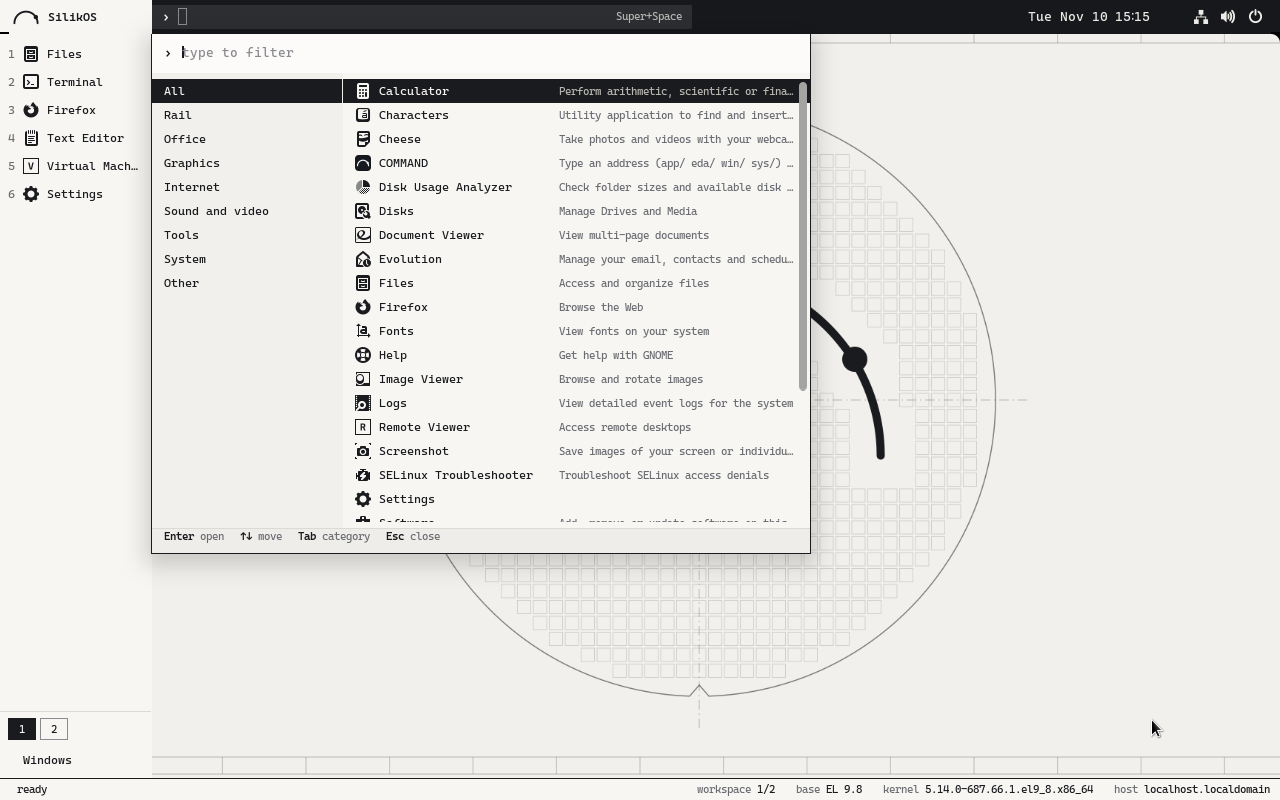
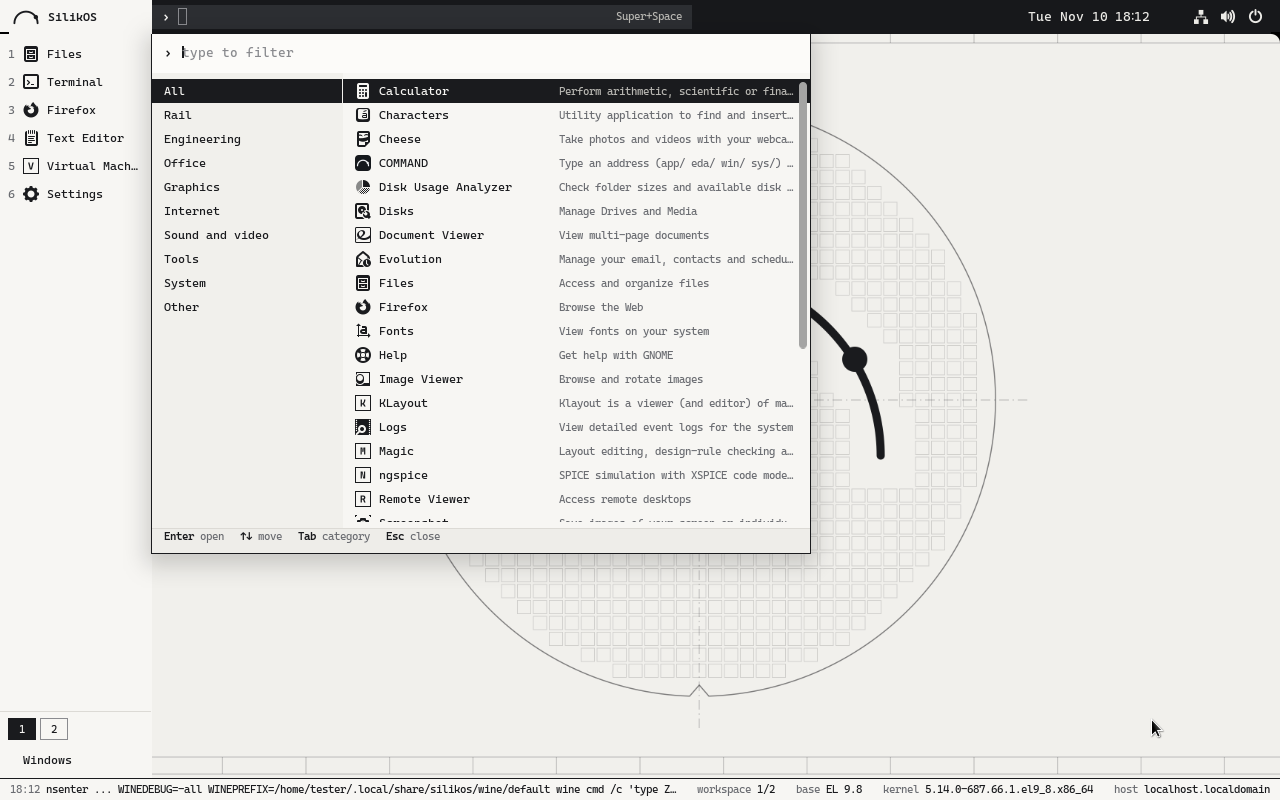
silikos-desktop 0.10.1: a locked screen no longer shows the shell's keys or the focused program's name
Found in the installation test's pictures: when the shell locks it turns extensions off, and the extension, on
its way out, showed "Activities" and the application menu again on a screen where the shell had just hidden
them (the name of the focused program was readable on the locked screen). They now come back only where the
session's mode has them, and stay hidden while the extension is on. Tried in the container by turning the
extension off and on (0 JS ERROR); not yet seen on a locked screen.

The 2 JS ERROR lines of the last two runs are the base shell's input-method manager at the start of a session,
not the extension: the test fails on errors with the extension in their message or stack and reports the others.

README and docs/STATUS.md: a Windows program's window and the four open EDA tools on the installed system
(run 42870211056), with its pictures.

Claude-Session: https://claude.ai/code/session_017vAYsxEtDVxrRbukVjuokZ

diff --git a/packages/silikos-desktop/files/shell-ext/extension.js b/packages/silikos-desktop/files/shell-ext/extension.js
@@ -230,7 +230,12 @@ class SilikShell {
             Main.panel._rightBox.remove_child(dm.container);
             Main.panel._centerBox.add_child(dm.container);
         }
-        for (const a of this._moved) a.show();
+        /* the shell's own keys come back only where the session's mode has them: on the lock screen (where the shell
+           turns extensions off) it has just hidden them, and showing them there put "Activities" and the name of the
+           focused program on a locked screen */
+        const p = Main.sessionMode.panel || {};
+        const has = [].concat(p.left || [], p.center || [], p.right || []);
+        for (const [k, c] of this._moved) if (has.includes(k)) c.show();
         this._moved = [];
     }
 
@@ -238,7 +243,10 @@ class SilikShell {
     _title() {
         for (const k of ['activities', 'appMenu']) {
             const b = Main.panel.statusArea[k];
-            if (b && b.container.visible) { b.container.hide(); this._moved.push(b.container); }
+            if (!b) continue;
+            b.container.hide();
+            this._moved.push([k, b.container]);
+            this._sigs.push([b.container, b.container.connect('show', c => c.hide())]);   /* the panel shows it again when the session's mode changes */
         }
         this._mk = new St.Button({ style_class: 'silik-mk', reactive: true, track_hover: true, can_focus: true, y_expand: true });
         const mb = new St.BoxLayout({ y_align: Clutter.ActorAlign.CENTER });

diff --git a/packages/silikos-desktop/files/shell-extra.css b/packages/silikos-desktop/files/shell-extra.css
@@ -67,5 +67,3 @@ StEntry:focus { box-shadow: inset 0 0 0 1px #ecebe7; border-color: #ecebe7; }
 .window-caption { background-color: #1a1b1e; color: #f7f6f3; border-radius: 0; border: 0; }
 .window-close { background-color: #1a1b1e; color: #f7f6f3; border-radius: 0; }
 .page-indicator .page-indicator-icon { background-color: #1a1b1e; }
-/* the lock and login screens: the shell's own key ("Activities") has nothing to open there */
-#panel.unlock-screen #panelActivities, #panel.login-screen #panelActivities, #panel.lock-screen #panelActivities { color: transparent; }

diff --git a/docs/STATUS.md b/docs/STATUS.md
@@ -46,7 +46,7 @@ Docker Hub, repo.almalinux.org, dl.fedoraproject.org and vault.centos.org).
 | One sandbox per prefix | concurrent runs there | two programs of one prefix run together; a file from a folder the running sandbox does not show is refused (exit 75) and opens once the prefix is idle |
 | An installer becomes an application | own `setup.exe` (a start-menu shortcut) -> `silik win sync` -> `silik win apps`; repeated by hand on the host without the sandbox | `win/silik-test  Silik Test  (default)`; an entry with `Exec=silik win run default -- ...lnk` and `StartupWMClass=siliktest.exe`; uninstalling removes it |
 | A Windows program in the rail and in Start | that generated entry copied into the GNOME session of the container, and a stand-in window with the class Wine gives (`siliktest.exe`, read with `xprop` from the real Wine window on the host) | the window is matched to the entry: "Silik Test" with its framed initial under "open" in the rail, in Start and under "Windows programs" (`docs/img/windows-program.png`). The real Wine window itself was not shown in that session (next row) |
-| A real Wine window in the Silik desktop | `silik-wine` 11.0 installed in the container session (AlmaLinux 9.8, gnome-shell 40.10); a Win32 program with a window (`tests/install/window.c`), opened with `silik win open` and by typing its path in the COMMAND bar; sandboxed (bwrap worked in that container) | the COMMAND bar offers "run with Wine, in the sandbox" with the line `silik win open …/win.exe`; the window draws with the ink title bar, and the rail lists it under "open" as "Silik Test" with its framed initial, in inverse video while focused (`docs/img/windows-program.png`); the status bar shows the command. Not yet on an installed system |
+| A real Wine window in the Silik desktop | `silik-wine` 11.0 installed in the container session (AlmaLinux 9.8, gnome-shell 40.10); a Win32 program with a window (`tests/install/window.c`), opened with `silik win open` and by typing its path in the COMMAND bar; sandboxed (bwrap worked in that container) | the COMMAND bar offers "run with Wine, in the sandbox" with the line `silik win open …/win.exe`; the window draws with the ink title bar, and the rail lists it under "open" as "Silik Test" with its framed initial, in inverse video while focused (`docs/img/windows-program.png`); the status bar shows the command. |
 | A double-click in Files | nautilus 40.2 in the container, clicked with xdotool, a logging stand-in for `silik` | `.exe`, `.exe` with the executable bit and `.msi` each ran `silik win open FILE` |
 | The COMMAND bar | `silik-command --list` there | `win/silik-test` with its twin line; a path to an `.exe` becomes `silik win open` |
 | Unit tests, all | `python3 -m unittest discover -s tests` on Python 3.13 (host) and, before the merge of the two branches, 3.9 | 111 / 111 on 3.13 after the merge (74 and 64 on 3.9 on each branch) |
@@ -63,10 +63,12 @@ Docker Hub, repo.almalinux.org, dl.fedoraproject.org and vault.centos.org).
 | Our own Wine, `silik-wine` 11.0 | workflow Wine, run 42850249493 (commit bf16eb6): built in an `almalinux:9` container from WineHQ's source (`wine/silik-wine.spec`), then installed in a clean `almalinux:9` with the base's repositories and CRB only | builds; installs without EPEL; `wineboot --init` makes a prefix; a 64-bit and a 32-bit Windows program (compiled there with mingw) each print their greeting. Kept as the release `wine-11.0` (one RPM, 73.5 MB); the CI's ISO carries it |
 | Wine on an installed system, with SELinux enforcing | workflow CI, run 42860155060 (commit 8ee438e): the ISO with `silik-wine`, 1433 packages, 7.2 G used | `wine-11.0` in the PATH. EL 9 has `selinuxuser_execmod` off, so Wine does not start in the user's domain: `silik-win` 0.4.0 carries a rule (`silikos_wine.cil`: Wine's three programs are `wine_exec_t`, a user's session enters `wine_t`). Seen there: the rule is loaded, the label is set, a Windows program reads its own domain as `unconfined_u:unconfined_r:wine_t`; **without the sandbox** (`--no-sandbox`) the test program ran from the user's session (exit 0). With the sandbox: not yet, next table |
 | Why the first sandboxed run stopped | `silik-wine` 11.0 in the AlmaLinux 9.8 container with a display (Xvfb), `wineboot --init` on a new prefix, plain and with `WINEDLLOVERRIDES=mscoree,mshtml=` | plain: a window "Wine Mono Installer" opens and waits for an answer (still there at the 150 s limit; WineHQ's Wine offers to download Mono and Gecko, a distribution's Wine does not); with the overrides: the prefix is made in 6 s. `silik` 0.3.1 sets them when it sets a prefix up. A .NET program therefore finds no Mono: not handled yet |
-| The lock screen without the extension | `silikos-desktop` 0.10.0 in the container session: gnome-shell started with user extensions disabled (as on the lock and login screens) and `G_RESOURCE_OVERLAYS` as `/usr/lib/environment.d/60-silikos-shell.conf` sets it, screenshot | the shell's own default stylesheet is then the SilikOS one: ink panel, Cascadia Mono, no logo of the base. Found on the installed system (run 42860155060): its lock screen was stock GNOME with "Activities" and the base's logo |
+| The shell's stylesheet without the extension | `silikos-desktop` 0.10.0 in the container session: gnome-shell started with user extensions disabled (as on the lock and login screens) and `G_RESOURCE_OVERLAYS` as `/usr/lib/environment.d/60-silikos-shell.conf` sets it, screenshot | the shell's own default stylesheet is then the SilikOS one: ink panel, Cascadia Mono, no logo of the base |
 | **A Windows program on the installed system, in its sandbox** | workflow CI, run 42864994059 (commit 8498a55; `silik` 0.3.1, `silikos-desktop` 0.10.0; 1434 packages, 7.5 G): `silik win open hello.exe` from the test user's session, SELinux enforcing, kernel 5.14, bubblewrap 0.6.3, Wine 11.0 | first use sets the prefix up and the program runs (exit 0) inside bwrap: it writes to `W:` (`~/Windows`) and **cannot see** a file of `~/.ssh` (`ran secret=hidden`); its SELinux domain is `wine_t`. 45 checks ok; the one marked failed was the test comparing a Windows line ending (fixed). Not seen: a window of a Windows program on that screen (the test program has none) |
-| The unlock prompt on the installed system | the same run: the session locked with Super+L, then a key, the screen saved (branch `ci-results`, `unlock.png`); `G_RESOURCE_OVERLAYS` read from gnome-shell's environment | the prompt is drawn with the SilikOS stylesheet: ink entry, Cascadia Mono, no "Activities", no logo of the base. The lock screen before the key (the clock) was not caught: the screen had gone dark (the test now moves the pointer first) |
-| The open EDA tools for EL 9: KLayout, Magic, Xschem, ngspice | workflow EDA tools (runs 42853105021 and 42859564822, commits cbe7ae4 and 06824e0): each built in `almalinux:9` from upstream's source at the version of `eda/versions`, installed in a clean `almalinux:9` (the base's repositories and CRB only) and given a job without a screen (`eda/trial.sh`) | `klayout-0.30.13` (44.9 MB, 58 minutes to build): a box written to GDS and read back through its Python interface; `ngspice-47` (2.6 MB, with XSPICE): a divider gives 0.5 V and an XSPICE gain block 1 V; `magic-8.3.696` (1.7 MB): a box of metal 1 painted in the `scmos` technology and saved; `xschem-3.4.7` (11.6 MB): installs and reports its version (no schematic drawn). All four in the release `eda-tools`. On an installed system so far: Magic and Xschem installed by the ISO (run 42864994059), not started; KLayout and ngspice not yet (next table). No window of any of them has been seen |
+| The unlock prompt on the installed system | runs 42864994059 and 42873833996: the session locked with Super+L, then a key, the screen saved (branch `ci-results`); `G_RESOURCE_OVERLAYS` read from gnome-shell's environment | the prompt is drawn with the SilikOS stylesheet: ink entry, Cascadia Mono, no logo of the base. **Found there, a fault of ours**: the locked screen showed "Activities" (first run) and the name of the focused program ("Silik Test") in the top bar. The shell turns extensions off when it locks, and the extension, on its way out, showed the shell's own keys again on a screen where the shell had just hidden them. Fixed in `silikos-desktop` 0.10.1 (they come back only where the session's mode has them); in the container the extension turned off and on again restores and hides them, 0 `JS ERROR`. Not yet seen fixed on a locked screen |
+| The open EDA tools for EL 9: KLayout, Magic, Xschem, ngspice | workflow EDA tools (runs 42853105021 and 42859564822, commits cbe7ae4 and 06824e0): each built in `almalinux:9` from upstream's source at the version of `eda/versions`, installed in a clean `almalinux:9` (the base's repositories and CRB only) and given a job without a screen (`eda/trial.sh`) | `klayout-0.30.13` (44.9 MB, 58 minutes to build): a box written to GDS and read back through its Python interface; `ngspice-47` (2.6 MB, with XSPICE): a divider gives 0.5 V and an XSPICE gain block 1 V; `magic-8.3.696` (1.7 MB): a box of metal 1 painted in the `scmos` technology and saved; `xschem-3.4.7` (11.6 MB): installs and reports its version (no schematic drawn). All four in the release `eda-tools`. No window of any of them has been seen |
+| The open EDA tools on an installed system | workflow CI, run 42870211056 (commit 5a53d83; 1452 packages, 7.7 G used): the ISO carries the four packages; the installed system runs each as the test user, without a screen | all four installed; `klayout -zz -v` answers; Magic paints and saves a box of metal 1 (`scmos`); ngspice solves the divider (0.5 V); `xschem --version` answers. KLayout, Magic and ngspice are in Start with their framed initial (`docs/img/installed-start.png`; Xschem is further down the list, not in the picture). None was opened in a window |
+| **A Windows program's window on the installed system** | the same run: a Win32 program with a window (`tests/install/window.c`), first started by `silik win open` and looked for in the session's window list, then opened the way a person would: Super+Space, its path typed on the virtual machine's keyboard, Enter; the screen saved | the window is in the list under its title with the class `win.exe`; on the screen it has the ink title bar and the rail lists it under "open" as "Silik Test" in inverse video (`docs/img/installed-windows-program.png`); the status bar shows the command. 52 checks ok; one failed: 2 `JS ERROR` lines in the journal. Read in the next run (42873833996): both are the base shell's input-method manager at the start of the session (`ibusManager.js`: "Set global engine failed: Operation was cancelled"), nothing of the extension in their stack; the test now fails on errors with the extension in them and reports the others |
 
 Found by the first complete installation and fixed, **and seen fixed in the second** (run 42840361656, commit 5f1d4f6:
 38 checks ok, none failed): no shell theme had been made and the GTK theme was the fallback, because the theme makers
@@ -88,13 +90,13 @@ Two bugs were found by running `silik eda` for real and fixed: the vault reposit
 
 | What | Why | Who can |
 |---|---|---|
-| A Windows program's window on the installed system's screen (seen in the container session only); a .NET program (no Mono in the prefix: `silik` sets a prefix up without Wine's download dialog) | the test opens one from the COMMAND bar from the next run on; Mono not handled yet | the next CI run; a decision on Mono |
-| KLayout and ngspice on an installed system; any of the four open EDA tools started there; their windows; a PDK (none is shipped) | the ISO of the last CI run was built before their packages existed; the installed system now runs each without a screen | the next CI run; windows and a real design: the Ryzen machine |
+| A .NET program (no Mono in the prefix: `silik` sets a prefix up without Wine's download dialog); a Windows program in Start after an installer made its shortcut, on the installed system | Mono not handled yet; no installer run there | a decision on Mono; the Ryzen machine |
+| The windows of KLayout, Magic, Xschem and ngspice's plots; a real design; a PDK (none is shipped) | only run without a screen | the Ryzen machine |
 | BIOS (non-UEFI) boot of the ISO | not tried | a VM |
 | The boot splash (plymouth theme `silikos`) on a screen, the About logo, the login logo, the firmware's boot entry name | set and listed, not seen: no real boot here | after the first installation |
 | Places that still name the base | by design: the package source URL in the installer, repository names in `dnf`, `/etc/redhat-release`, `ID=` | — |
 | The login screen itself and its logo (the test logs in by itself), a hardware-accelerated shell, HiDPI scaling of the rail and status bar, several monitors, a full-screen window, UEFI boot of the installed system | the CI machine: BIOS, one 1280x800 screen, no GPU | the Ryzen machine |
-| The login screen (GDM's greeter) in the Silik look; the lock screen's clock | the stylesheet overlay (`/usr/lib/environment.d/60-silikos-shell.conf`) should reach the greeter's shell too [A]: not seen, the test logs in by itself; the lock screen's picture was dark | the next CI run (lock screen); the Ryzen machine (greeter) |
+| The login screen (GDM's greeter) in the Silik look; the lock screen's clock; the locked screen without the shell's keys (0.10.1) | the stylesheet overlay (`/usr/lib/environment.d/60-silikos-shell.conf`) should reach the greeter's shell too [A]: not seen, the test logs in by itself; the pictures so far caught the prompt, not the clock | the next CI run (locked screen); the Ryzen machine (greeter) |
 | Icons inside applications other than Files (toolbars use Adwaita's line icons; a program that draws its own colour pictures keeps them); the file-type icons other than folder and text sheet on screen (only rendered to a sheet with librsvg) | not looked at | after the first installation |
 | ES strings of the shell extension on screen; Start with a full application set (the container has seven) and its scrolling; the Super key opening Start under a real session (here it was sent with xdotool); the overview's application grid beyond two icons; GTK 4 / Qt applications (they do not read the GTK 3 theme) | not run | after the first installation |
 | The clock's colon | Cascadia Mono has no U+2236: without another font it drew as a box in the container; with `dejavu-sans-fonts` (now required) it draws | — |

diff --git a/README.md b/README.md
@@ -13,13 +13,15 @@ an EL9 system. It is a try: `docs/STATUS.md` says what has been run and what has
 | Security | SELinux enforcing (the base's), a firewall zone that drops incoming connections, sshd off, daily security-only updates, screen lock; `silik secure status` audits, `silik secure apply` sets; `docs/SECURITY.md` | `packages/silikos-security` |
 | SilikStudio | the SilikVolt suite as a native application: a window of its own, the first key of the rail, its programs in the PATH. Its package is built from SilikStudio's repository on EL 9 and put in `build/extra/` for the ISO | `tools/build_iso.sh`, `docs/img/silikstudio.png` |
 | `silik` | one command behind every action; prints what it runs; `--dry-run` | `packages/silik-tools` |
-| EDA | what Cadence / Synopsys tools ask of EL9, and EL6 / EL7 / EL8 boxes (`silik eda`) | `packages/silik-eda-compat`, `docs/EDA.md` |
-| Windows | a double-click on an `.exe` runs it in a sandbox that does not see the rest of the home folder (`silik win open`); installed programs are applications of the desktop; a Windows virtual machine for what Wine cannot run. **Wine itself is not installable from EPEL on EL 9.8 today: see `docs/STATUS.md`** | `packages/silik-win`, `docs/WINDOWS.md` |
+| EDA | what Cadence / Synopsys tools ask of EL9, and EL6 / EL7 / EL8 boxes (`silik eda`); the open tools KLayout, Magic, Xschem and ngspice (with XSPICE), built here for EL 9 from their authors' sources and installed with the system | `packages/silik-eda-compat`, `eda/`, `docs/EDA.md` |
+| Windows | a double-click on an `.exe` runs it in a sandbox that does not see the rest of the home folder (`silik win open`); installed programs are applications of the desktop; a Windows virtual machine for what Wine cannot run. Wine is our own build for EL 9 (`silik-wine`, Wine 11.0), on the ISO | `packages/silik-win`, `wine/`, `docs/WINDOWS.md` |
 | Name and look | os-release display names, boot menu, boot splash, login logo, backgrounds; the installer's screens | `packages/silikos-branding`, `installer/`, `brand/` |
 
 ![SilikOS as installed by the CI](docs/img/installed.png)
 
 ![Start, after the Super key, on the installed system](docs/img/installed-start.png)
+
+![A Windows program opened from the COMMAND bar, on the installed system](docs/img/installed-windows-program.png)
 
 The system as installed by the CI in a virtual machine on 10/11/2026 (a real session; the pictures of the last run: branch `ci-results`).
 
